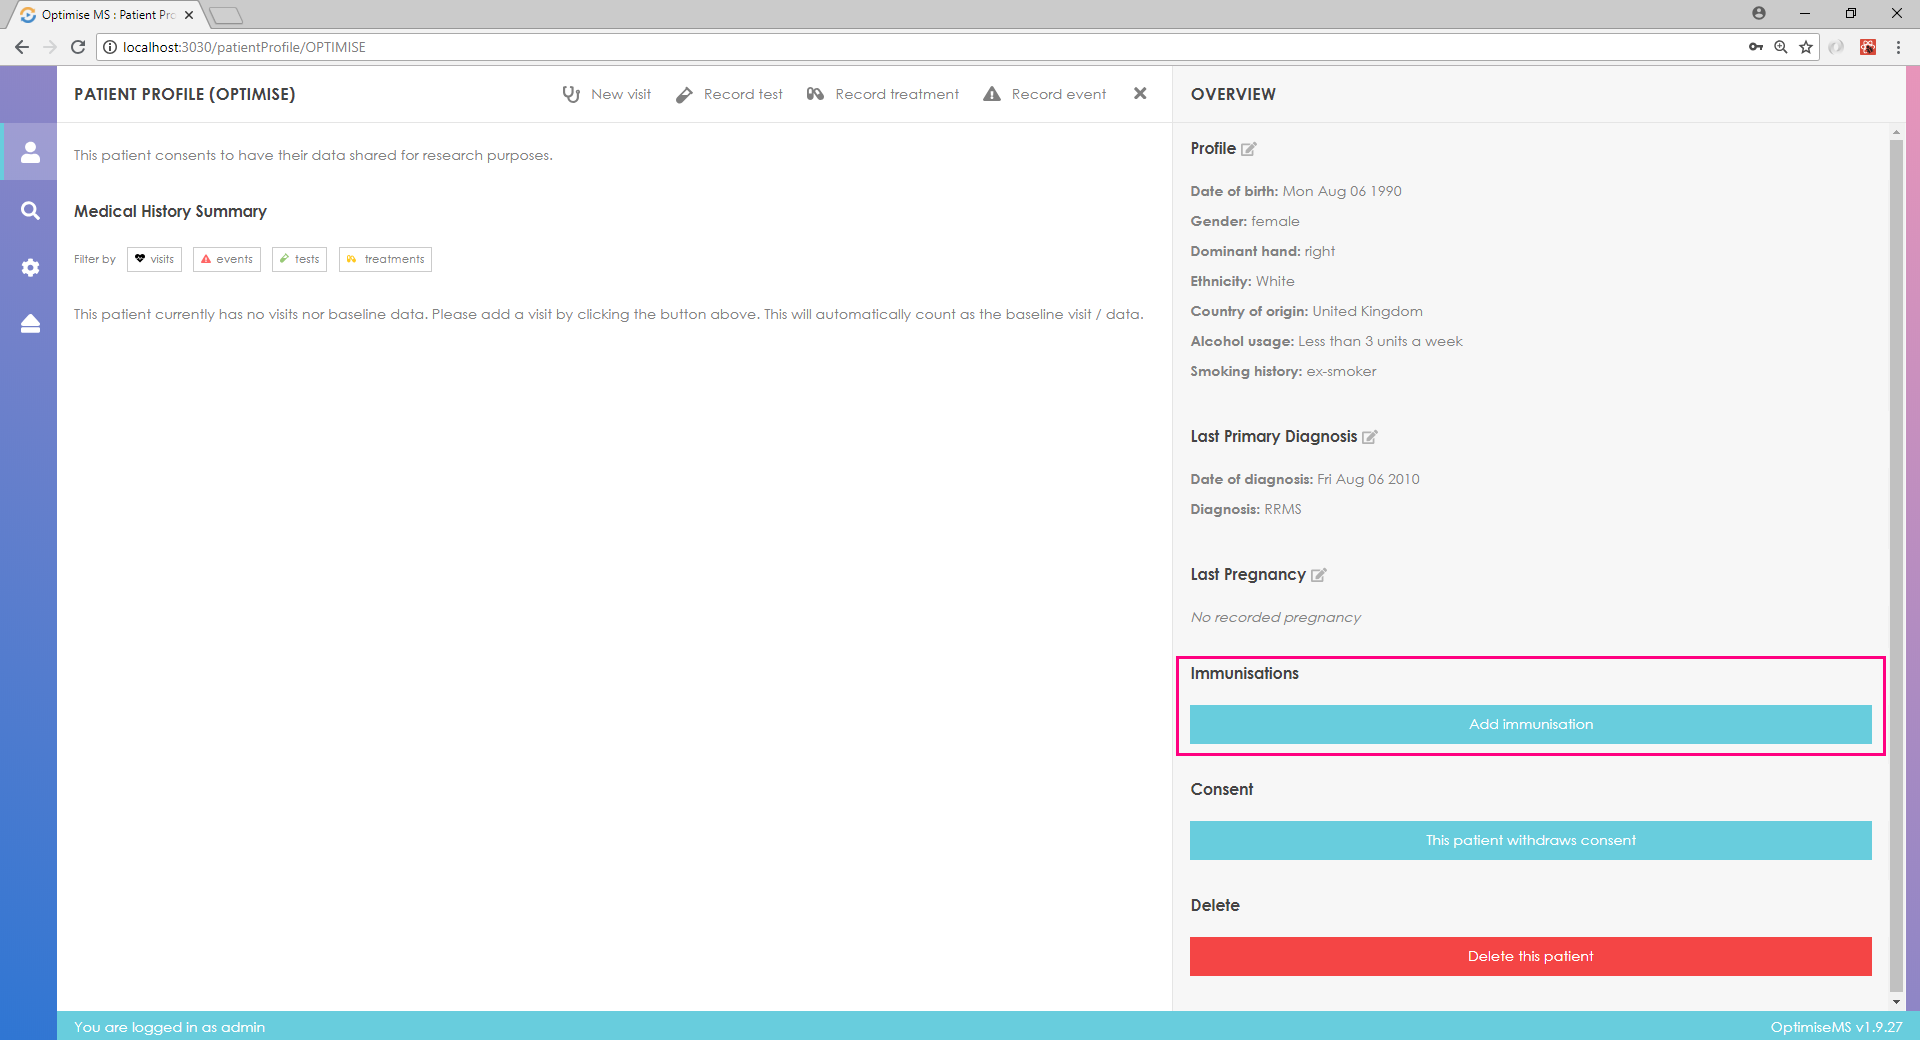
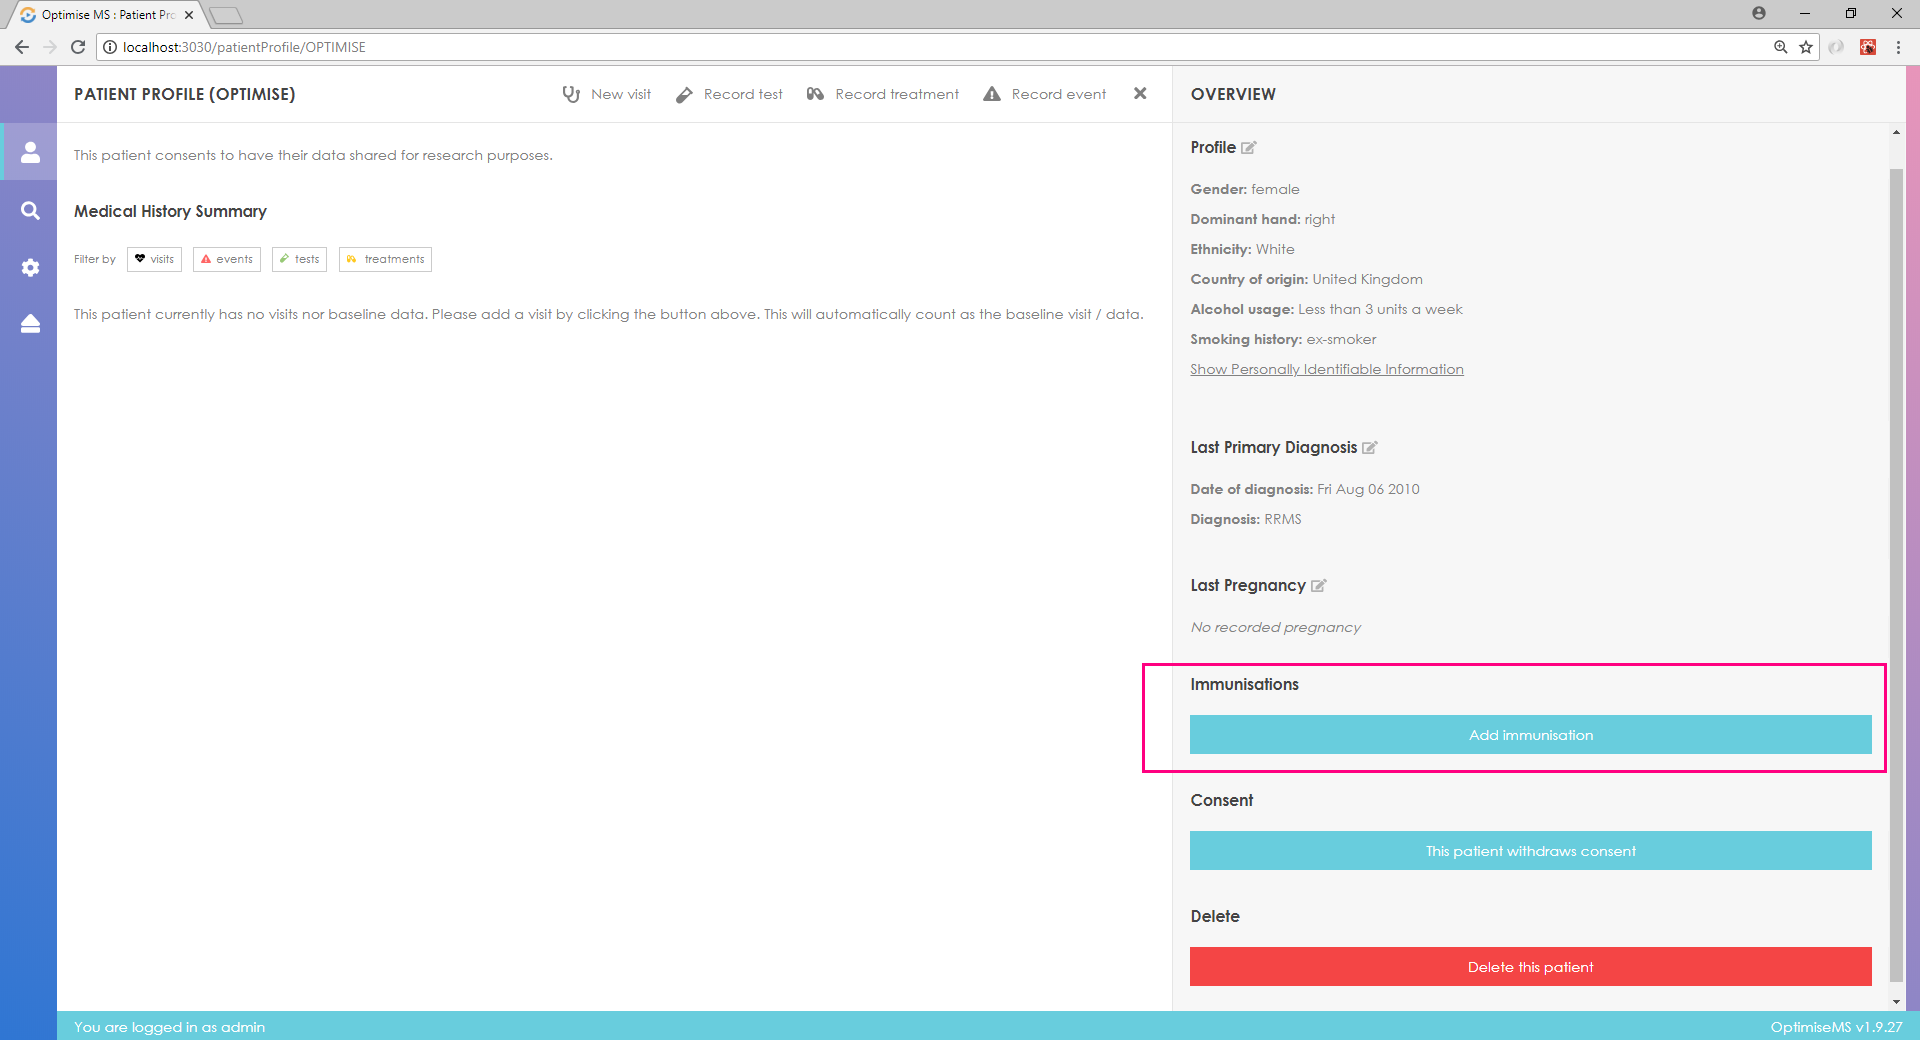
Updating user manual

Changed region(s): [[0.5938, 0.4, 1.0, 0.9538], [0.625, 0.1231, 0.75, 0.3692], [0.9688, 0.1231, 1.0, 0.1538]]

diff --git a/website/extra/usermanual.html b/website/extra/usermanual.html
@@ -84,10 +84,10 @@
                         <p>A patient identifier is required when creating a new patient in OPTIMISE MS. The term Patient ID,
                             used in this guide, refers to this identifier which may correspond to the patient's NHS ID. OPTIMISE
                             MS stores an independently generated, pseudonymised ID along with the patient ID entered by the
-                            user at patient creation time- this identifier is referred to as OPTIMISE ID.</p>
+                            user at patient creation time- this generated identifier is referred to as OPTIMISE ID.</p>
                         <p>The generated OPTIMISE ID is included in the exported data (more about the export in the section
-                            <a href="#ug-export">Exporting patient data</a>). The patient ID, which as mentioned above can be the NHS ID, is not
-                            included in the exported data sets. You can retrieve the patient ID using the
+                            <a href="#ug-export">Exporting patient data</a>). The patient ID, which, as mentioned above, can be the NHS ID, is
+                            not included in the exported data sets. You can retrieve the patient ID using the
                             <a href="ug-search">Search tool</a> as search by this generated ID is also possible.
                         </p>
                         <h1 id="ug-login">Logging in</h1>
@@ -210,8 +210,8 @@
                         <br/>
                         <br/>
                         <p>To create a new patient using the search tool, select Patient ID as the search field list and enter
-                            the patient ID in the search value box. If there are no patients with the entered ID, you may
-                            create a new patient by clicking the button</p>
+                            the patient ID in the search value box. If there are no patients with the entered ID (here, 'opt'),
+                            you may create a new patient by clicking the button</p>
                         <img src="/img/createPatientButton.png" alt="createPatientSearch">
                         <br/>
                         <br/>
@@ -266,7 +266,8 @@
                         <h2 id="ug-patientOverview">Patient overview</h2>
                         <p>The Profile section in the Overview panel contains the profile data entered during patient creation.
                             To edit the Profile section, click the button
-                            <img src="/img/editButton.png" alt="editProfileButton"> next to Profile.</p>
+                            <img src="/img/editButton.png" alt="editProfileButton"> next to Profile. Click on
+                            <img src="/img/pii.png" alt="pii"> to view the Patient Identifiable Information.</p>
                         <img src="/img/patientProfileEditButton.png" alt="editProfileButton">
                         <br/>
                         <br/>
@@ -275,8 +276,8 @@
                         <img src="/img/patientProfileEdit1.png" alt="editProfile1">
                         <br/>
                         <br/>
-                        <p>Similarly, the Primary Diagnosis section in the Overview panel contains the diagnosis data entered
-                            during the creation of the patient. To edit this or add diagnoses, click
+                        <p>The Primary Diagnosis section in the Overview panel contains the most recent diagnosis data. To edit
+                            this or add more diagnoses, click
                             <img src="/img/editButton.png" alt="editProfileButton"> next to Primary Diagnosis.</p>
                         <img src="/img/primaryDiagnosisEditButton.png" alt="editDiagnosisButton">
                         <br/>
@@ -308,8 +309,8 @@
                         <img src="/img/addDiagnosisForm.png" alt="diagnosisForm">
                         <br/>
                         <br/>
-                        <p>To enter or edit Pregnancy data, click on
-                            <img src="/img/editButton.png" alt="pregnancyEdit">. The most recent Pregnancy record is listed in the Overview Panel.</p>
+                        <p>To add or edit Pregnancy data, click on
+                            <img src="/img/editButton.png" alt="pregnancyEdit">. The most recent Pregnancy record (pregnancy date) is listed in the Overview Panel.</p>
                         <img src="/img/pregnancy1.png" alt="pregnancy">
                         <br/>
                         <br/>
@@ -678,8 +679,10 @@
                         <br/>
                         <br/>
                         <h1 id="ug-timeline">Using the Timeline</h1>
-                        <p>You may click on the coloured shapes on the Timeline to access (view/edit) the corresponding entry
-                            in Medical History Summary.</p>
+                        <p>You may click on the coloured shapes or EDSS on the Timeline to access (view/edit) the corresponding
+                            entry in Medical History Summary. The estimated total EDSS is plotted at the bottom part of the
+                            timeline.
+                        </p>
                         <img src="/img/timeline.png" alt="timeline">
                         <br/>
                         <br/>
@@ -761,6 +764,20 @@
                             <a href="#ug-search">Searching patients</a>.
                         </p>
                         <img src="/img/export.png" alt="export">
+                        <br/>
+                        <br>
+                        <p>The option to export part of the database becomes available if you start using the search tool.</p>
+                        <p>Click on</p>
+                        <img src="/img/exportSearchButton.png" alt="exportSearchButton">
+                        <br/>
+                        <br>
+                        <p>in the right panel to export the data stored for the patients listed in the search results area below
+                            the search tool.</p>
+                        <p>You may export data based on a search by fields such as ID and treatment. Here, for example, only
+                            the data for patients diagnosed with RRMS can be exported by clicking the appropriate Export
+                            button in the right panel.
+                        </p>
+                        <img src="/img/exportSearch.png" alt="exportSearch">
                         <br/>
                         <br>
                         <h1 id="ug-admin">Admin menu</h1>
